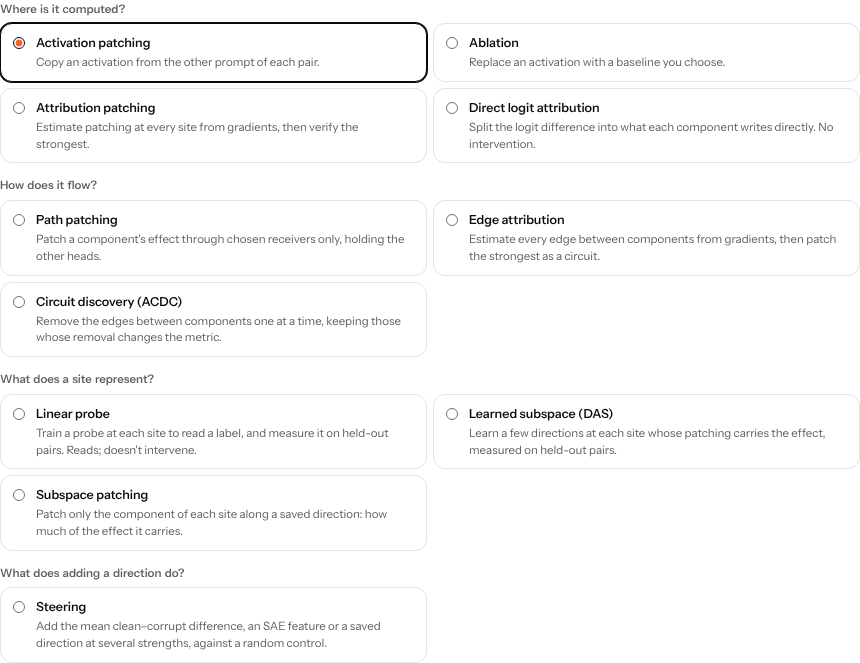
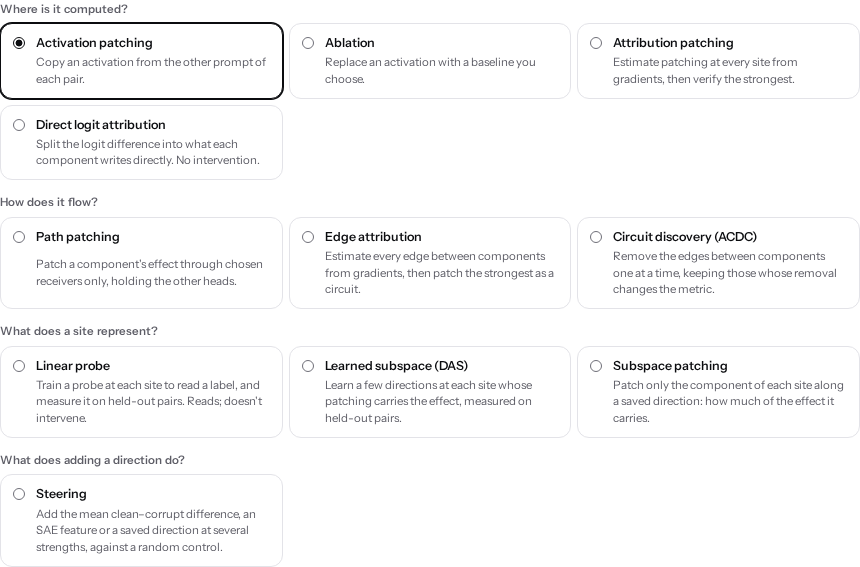
Docs: the results and the methods pictured in the new look
Taken on GPT-2 small with the bundled IOI example. The numbers are those of the earlier
picture (L9 H9 +0.171, clean +2.90, corrupt -2.95), now with the Holm p-value beside the
q-value. The hardware reads as GPU, not by its model's name.

diff --git a/CHANGELOG.md b/CHANGELOG.md
@@ -56,6 +56,8 @@ paper, ink and one signal red, with titles in a serif.
 - The experiment form lists its methods three across, so the whole list is in view sooner.
 - The Prompts view names a run's saved copy of its prompts in words, not by its file's
   64-character name.
+- The documentation's pictures of the results and of the methods show the new look. Its
+  pictures of a probe, representations, ACDC and a sweep still show the earlier colors.
 - **Specs are version 5.** A version 5 spec states `gate`, `statistics.cross`, a site-sets
   scope's `singles` and `controls`, and a resample baseline's `group`. Version 4 specs still run
   and read with each of them off, which is what version 4 did. The bundled examples and the toy
